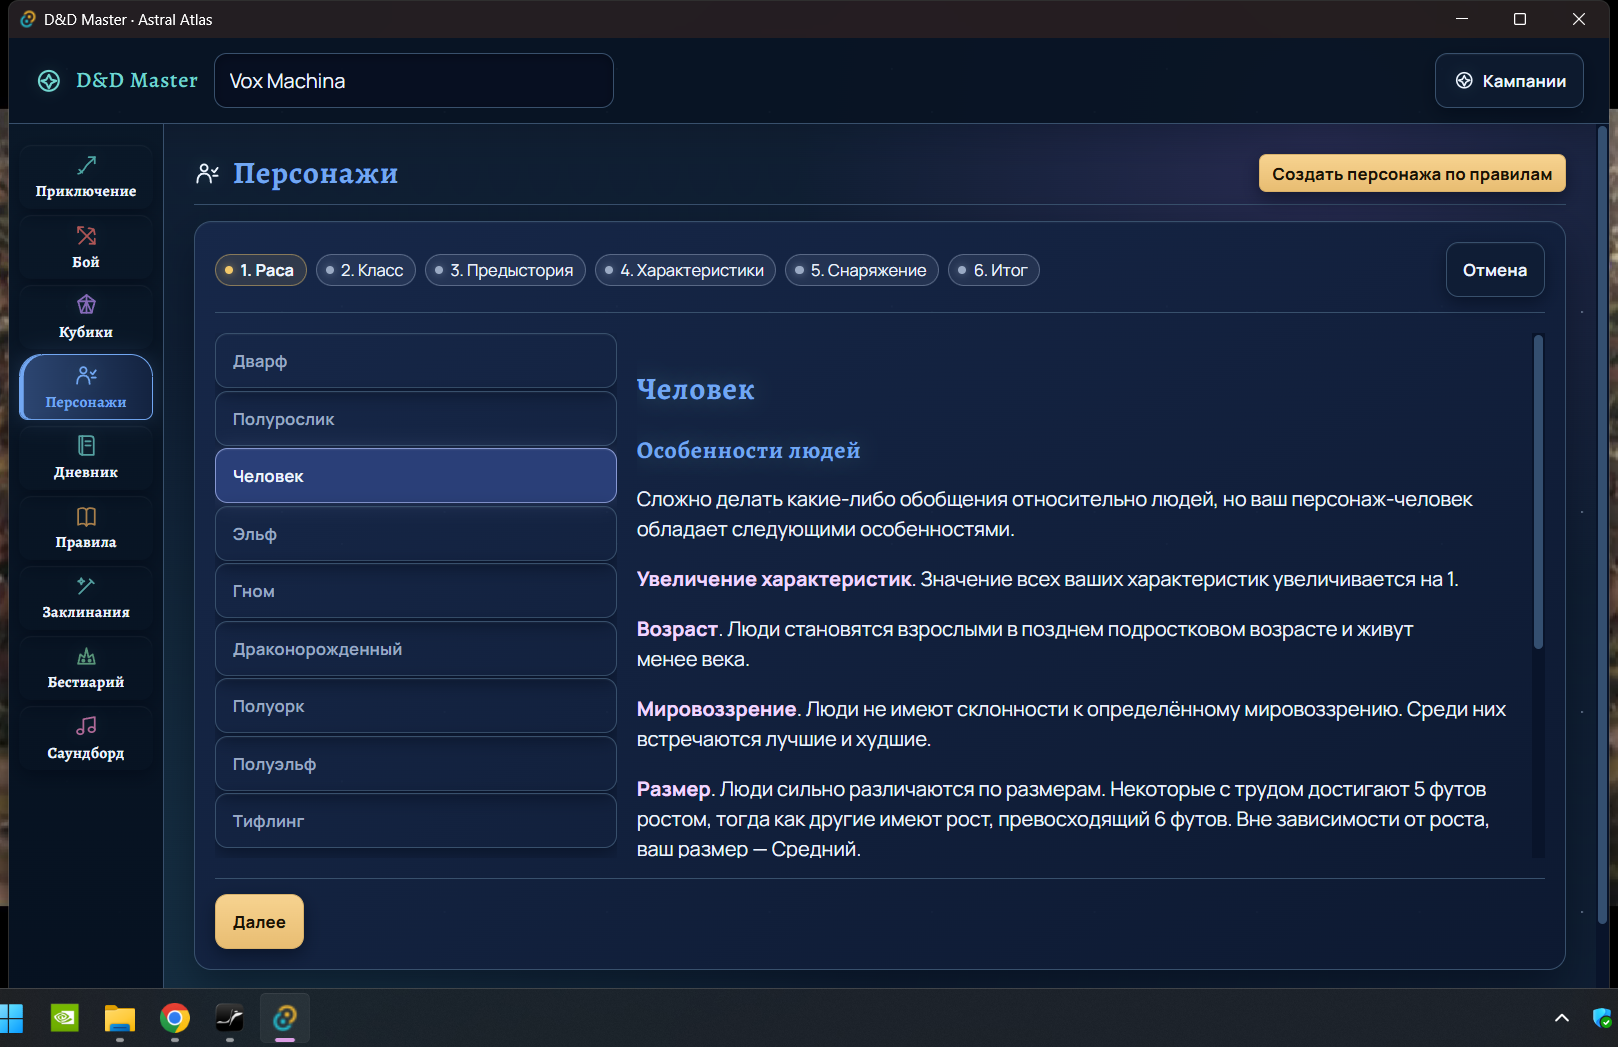
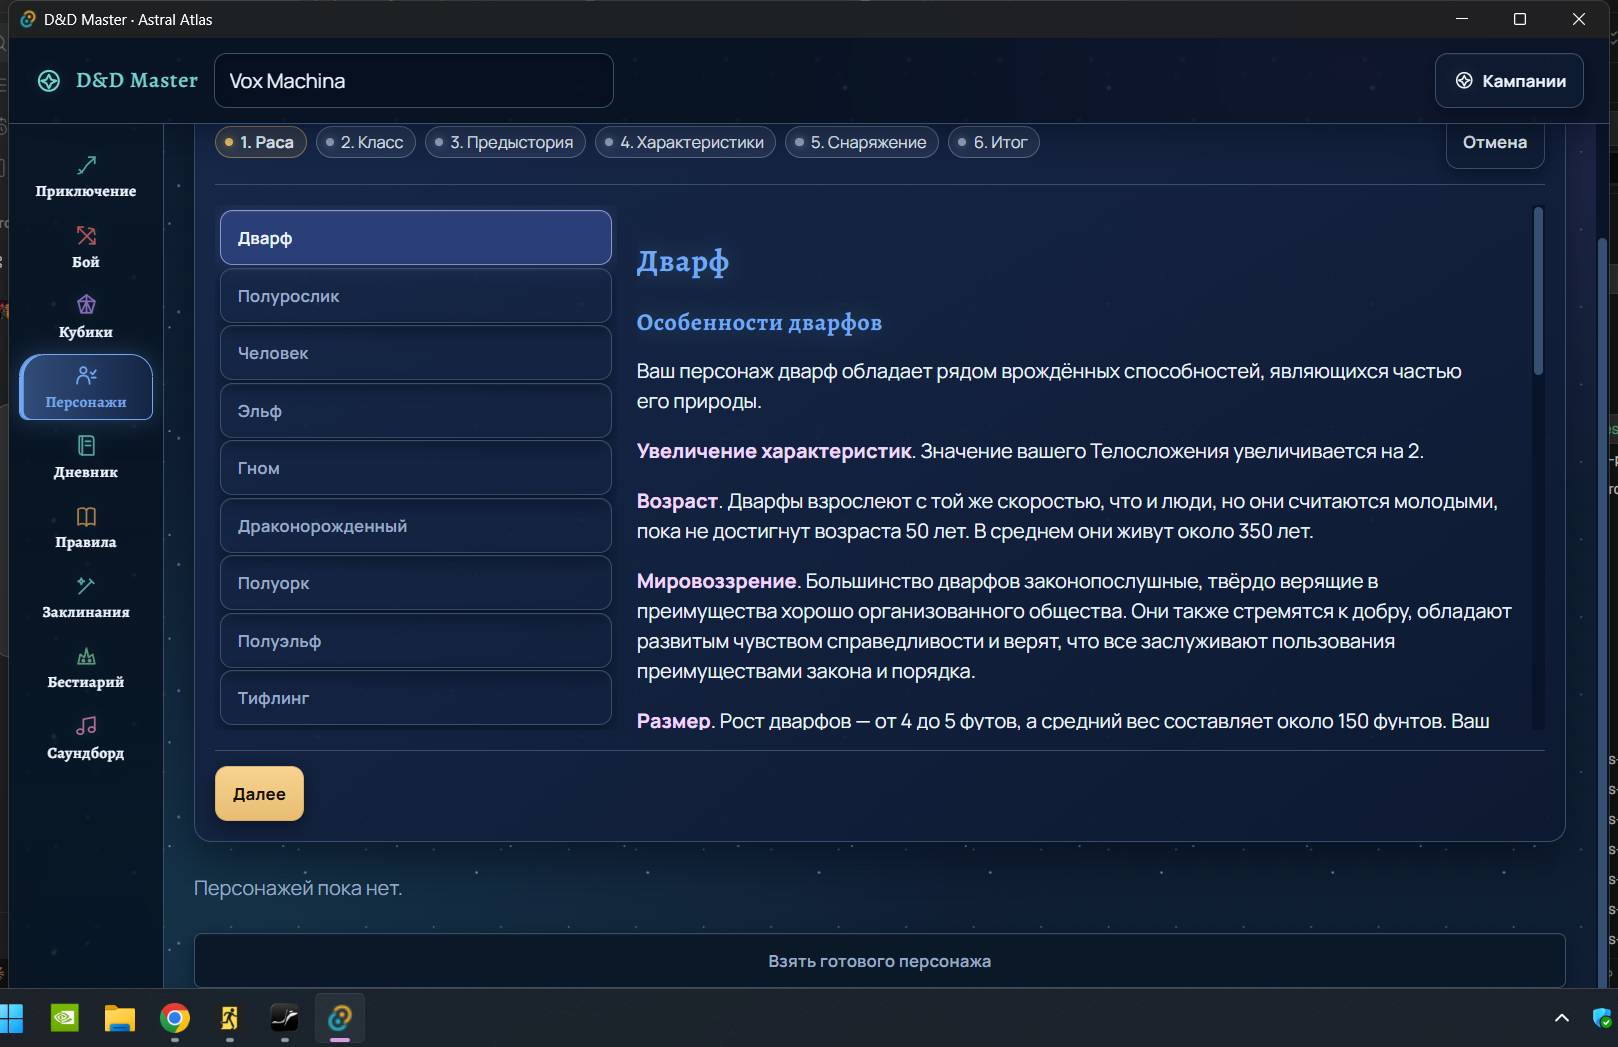
ui: исправить замечания живого просмотра атласа

diff --git a/src/ui/theme.css b/src/ui/theme.css
@@ -70,7 +70,8 @@
   --dm-status-done: var(--dm-accent);
   --dm-status-blocked: var(--dm-danger);
 
-  --dm-star: rgba(214, 232, 255, 0.5);
+  --dm-star: rgba(214, 232, 255, 0.58);
+  --dm-star-bright: rgba(239, 247, 255, 0.88);
   --dm-radius-panel: 14px;
   --dm-radius-control: 10px;
 
@@ -90,15 +91,19 @@ body {
 }
 
 body {
-  /* Звёздное поле макета: два слоя редких точек разного размера поверх свечений.
+  /* Звёздное поле макета: точки разного размера и яркости поверх туманностей.
      Точки — фон, а не элементы: ни узла DOM, ни перерисовки при прокрутке. */
   background:
-    radial-gradient(circle at 21% 13%, var(--dm-star) 0.6px, transparent 1.1px),
-    radial-gradient(circle at 68% 37%, var(--dm-star) 0.5px, transparent 1px),
-    radial-gradient(circle at 82% 8%, rgba(105, 67, 158, 0.26), transparent 33%),
-    radial-gradient(circle at 17% 90%, rgba(55, 160, 164, 0.14), transparent 38%),
+    radial-gradient(circle at 17% 23%, var(--dm-star-bright) 0.8px, transparent 1.5px),
+    radial-gradient(circle at 73% 61%, rgba(195, 213, 255, 0.72) 0.65px, transparent 1.25px),
+    radial-gradient(circle at 41% 79%, var(--dm-star) 0.55px, transparent 1.1px),
+    radial-gradient(circle at 86% 17%, rgba(182, 151, 240, 0.66) 0.75px, transparent 1.4px),
+    radial-gradient(circle at 29% 47%, rgba(216, 235, 255, 0.42) 0.45px, transparent 1px),
+    radial-gradient(ellipse at 84% 3%, rgba(91, 58, 151, 0.3), transparent 34%),
+    radial-gradient(ellipse at 12% 86%, rgba(35, 135, 158, 0.18), transparent 38%),
+    radial-gradient(ellipse at 48% 56%, rgba(43, 66, 131, 0.13), transparent 46%),
     var(--dm-bg);
-  background-size: 220px 190px, 130px 160px, auto, auto, auto;
+  background-size: 211px 173px, 137px 119px, 91px 83px, 73px 101px, 54px 62px, auto, auto, auto, auto;
   color: var(--dm-text);
   font-family: var(--dm-font-body);
   font-size: 16px;
@@ -276,6 +281,10 @@ summary { font-family: var(--dm-font-display); letter-spacing: 0.025em; }
   border: 1px solid var(--dm-border);
   border-radius: var(--dm-radius-panel);
   box-shadow: 0 16px 36px var(--dm-shadow), inset 0 1px rgba(255, 255, 255, 0.035);
+}
+
+.spell-view {
+  padding: 1em 1.15em;
 }
 
 /* ─────────────────────────────────────────────────────────────────────────────

diff --git a/src/ui/AppShell.css b/src/ui/AppShell.css
@@ -23,7 +23,8 @@
   align-items: center;
   gap: 0.75em;
   padding: 0.75em 1.25em;
-  background: rgba(8, 20, 36, 0.94);
+  background: rgba(8, 20, 36, 0.72);
+  backdrop-filter: blur(1px);
   border-bottom: 1px solid var(--dm-border);
   box-shadow: 0 10px 28px rgba(1, 6, 18, 0.36);
 }
@@ -134,7 +135,8 @@
 }
 
 .app-shell__nav {
-  background: linear-gradient(180deg, rgba(10, 24, 40, 0.98), rgba(6, 17, 32, 0.98));
+  background: linear-gradient(180deg, rgba(10, 24, 40, 0.78), rgba(6, 17, 32, 0.7));
+  backdrop-filter: blur(1px);
   border-right: 1px solid var(--dm-border);
   padding: 1em 0.5em;
   min-height: 0;
@@ -160,6 +162,7 @@
   line-height: 1.15;
   letter-spacing: 0.02em;
   hyphens: auto;
+  box-shadow: none;
 }
 
 .app-shell__nav-item .ui-icon { width: 1.6em; height: 1.6em; }
@@ -174,11 +177,19 @@
 
 .app-shell__nav-item:not(.app-shell__nav-item--active) .ui-icon { color: var(--nav-accent); opacity: 0.72; }
 
+.app-shell__nav-item:not(.app-shell__nav-item--active):hover {
+  background: transparent;
+  border-color: transparent;
+  color: var(--nav-accent);
+  box-shadow: none;
+  transform: none;
+}
+
 .app-shell__nav-item--active {
-  background: linear-gradient(90deg, color-mix(in srgb, var(--nav-accent) 24%, #17284a), rgba(23, 40, 74, 0.72));
+  background: linear-gradient(90deg, color-mix(in srgb, var(--nav-accent) 30%, #17284a), rgba(23, 40, 74, 0.84));
   border-color: var(--nav-accent);
   color: var(--nav-accent);
-  box-shadow: inset 3px 0 var(--nav-accent), 0 0 18px color-mix(in srgb, var(--nav-accent) 18%, transparent);
+  box-shadow: inset 3px 0 var(--nav-accent), 0 0 20px color-mix(in srgb, var(--nav-accent) 28%, transparent);
 }
 
 .app-shell__nav-item--active[data-tab="combat"] { border-radius: 3px 10px 3px 10px; }

diff --git a/src/ui/CharacterWizard.css b/src/ui/CharacterWizard.css
@@ -47,7 +47,7 @@
   flex: 1 1 12.5em;
   list-style: none;
   margin: 0;
-  padding: 0;
+  padding: 4px;
   overflow-y: auto;
 }
 
@@ -58,6 +58,11 @@
   background: transparent;
   border: 1px solid transparent;
   margin-bottom: 0.15em;
+}
+
+.wizard__pick-item:hover,
+.wizard__pick-item:active {
+  transform: none;
 }
 
 .wizard__pick-item--active {
@@ -308,7 +313,14 @@
 .wizard__skill-list {
   margin: 0.3em 0 0;
   padding-left: 1.2em;
-  columns: 2;
+  display: grid;
+  grid-template-columns: repeat(2, minmax(0, 1fr));
+  gap: 0.25em 2em;
+}
+
+.wizard__skill-list > li {
+  min-width: 0;
+  overflow-wrap: anywhere;
 }
 
 @container (max-width: 42rem) {
@@ -322,7 +334,7 @@
   }
 
   .wizard__skill-list {
-    columns: 1;
+    grid-template-columns: minmax(0, 1fr);
   }
 }
 

diff --git a/src/ui/pages/DicePage.tsx b/src/ui/pages/DicePage.tsx
@@ -133,7 +133,7 @@ export function DicePage() {
       return <li key={item.id} className="dice-log-entry">
         {entrySides && (item.result && item.result.rolls.length > 1
           ? <span className="dice-log-entry__icons">{item.result.rolls.map((roll, index) => <DiceIcon key={index} sides={entrySides} value={roll} log />)}</span>
-          : <DiceIcon sides={entrySides} value={item.result?.total} />)}
+          : <DiceIcon sides={entrySides} value={item.result?.total} log />)}
         <span className="dice-log-entry__expr">{item.label}</span>
         {item.result && <><span className="dice-log-entry__total">{item.result.total}</span>{showDetail && <span className="dice-log-entry__detail">
           {showRollBreakdown && <>[{item.result.rolls.join(", ")}]

diff --git a/src/ui/pages/DicePage.test.tsx b/src/ui/pages/DicePage.test.tsx
@@ -160,6 +160,7 @@ describe("DicePage", () => {
     render(<DicePage />);
     fireEvent.click(screen.getByRole("button", { name: "Бросить" }));
     await waitFor(() => expect(sounds.playCriticalSuccessSound).toHaveBeenCalledTimes(1), { timeout: 1000 });
+    expect(screen.getByLabelText("Кость d20, результат 20")).toHaveClass("dice-icon--log");
     expect(sounds.playDiceRollSound).not.toHaveBeenCalled();
     expect(sounds.playCriticalFailSound).not.toHaveBeenCalled();
   });
